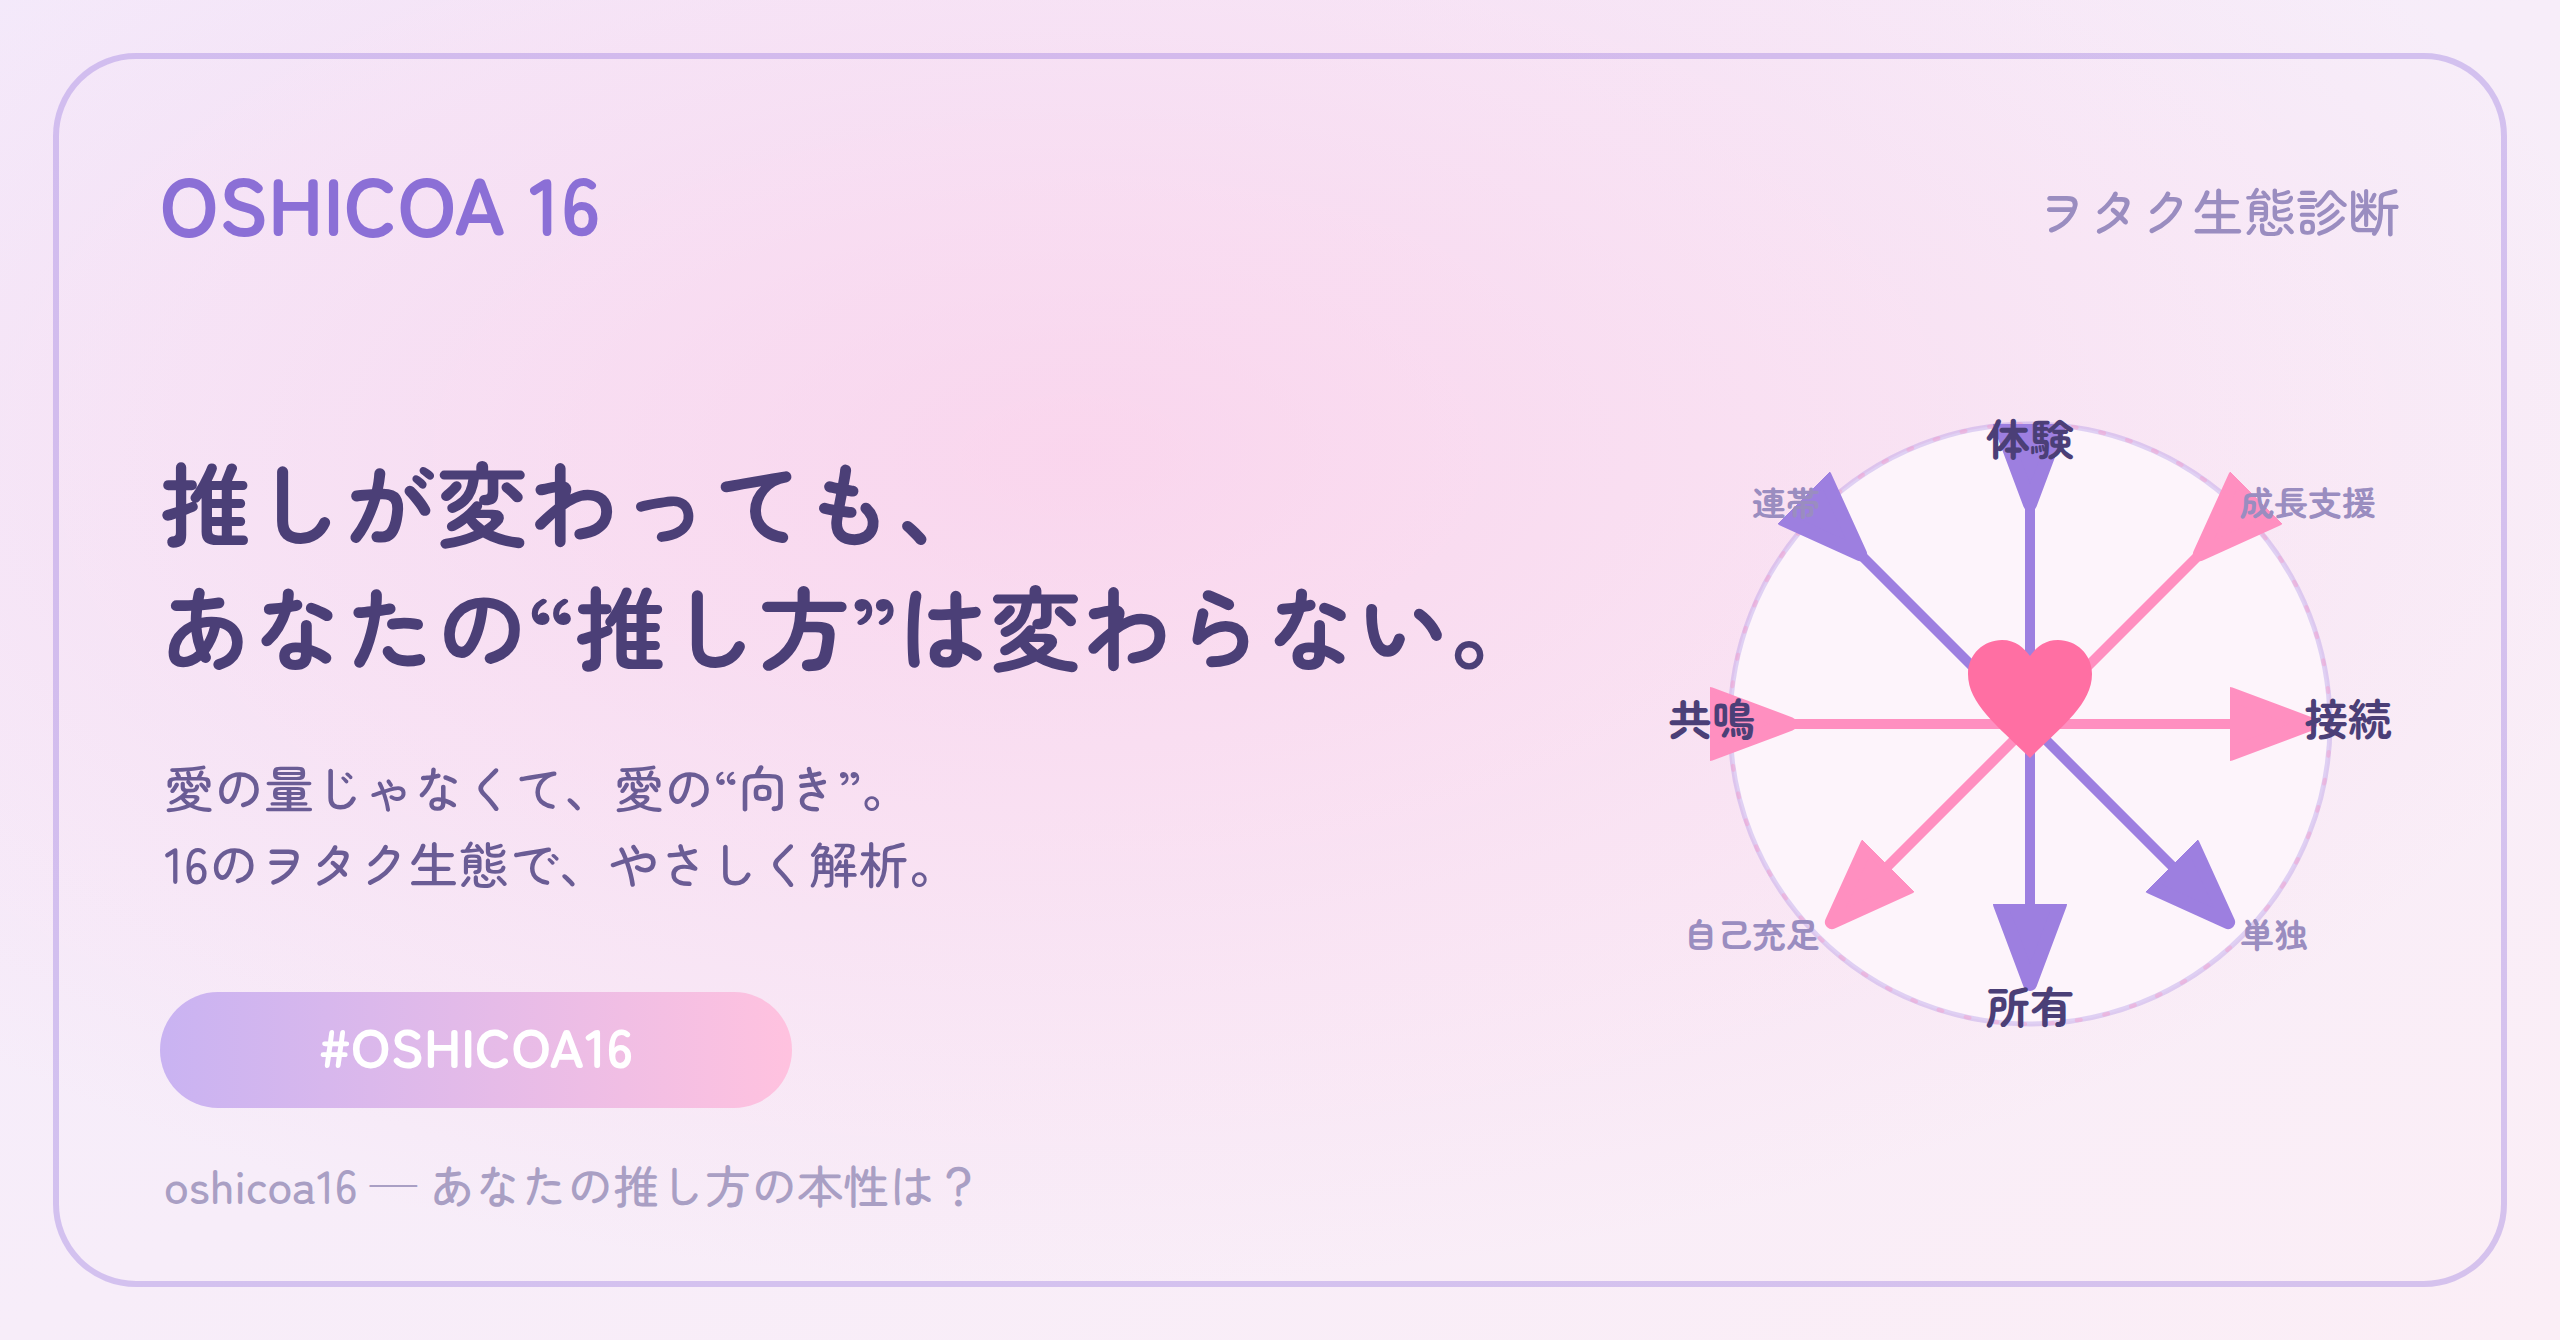
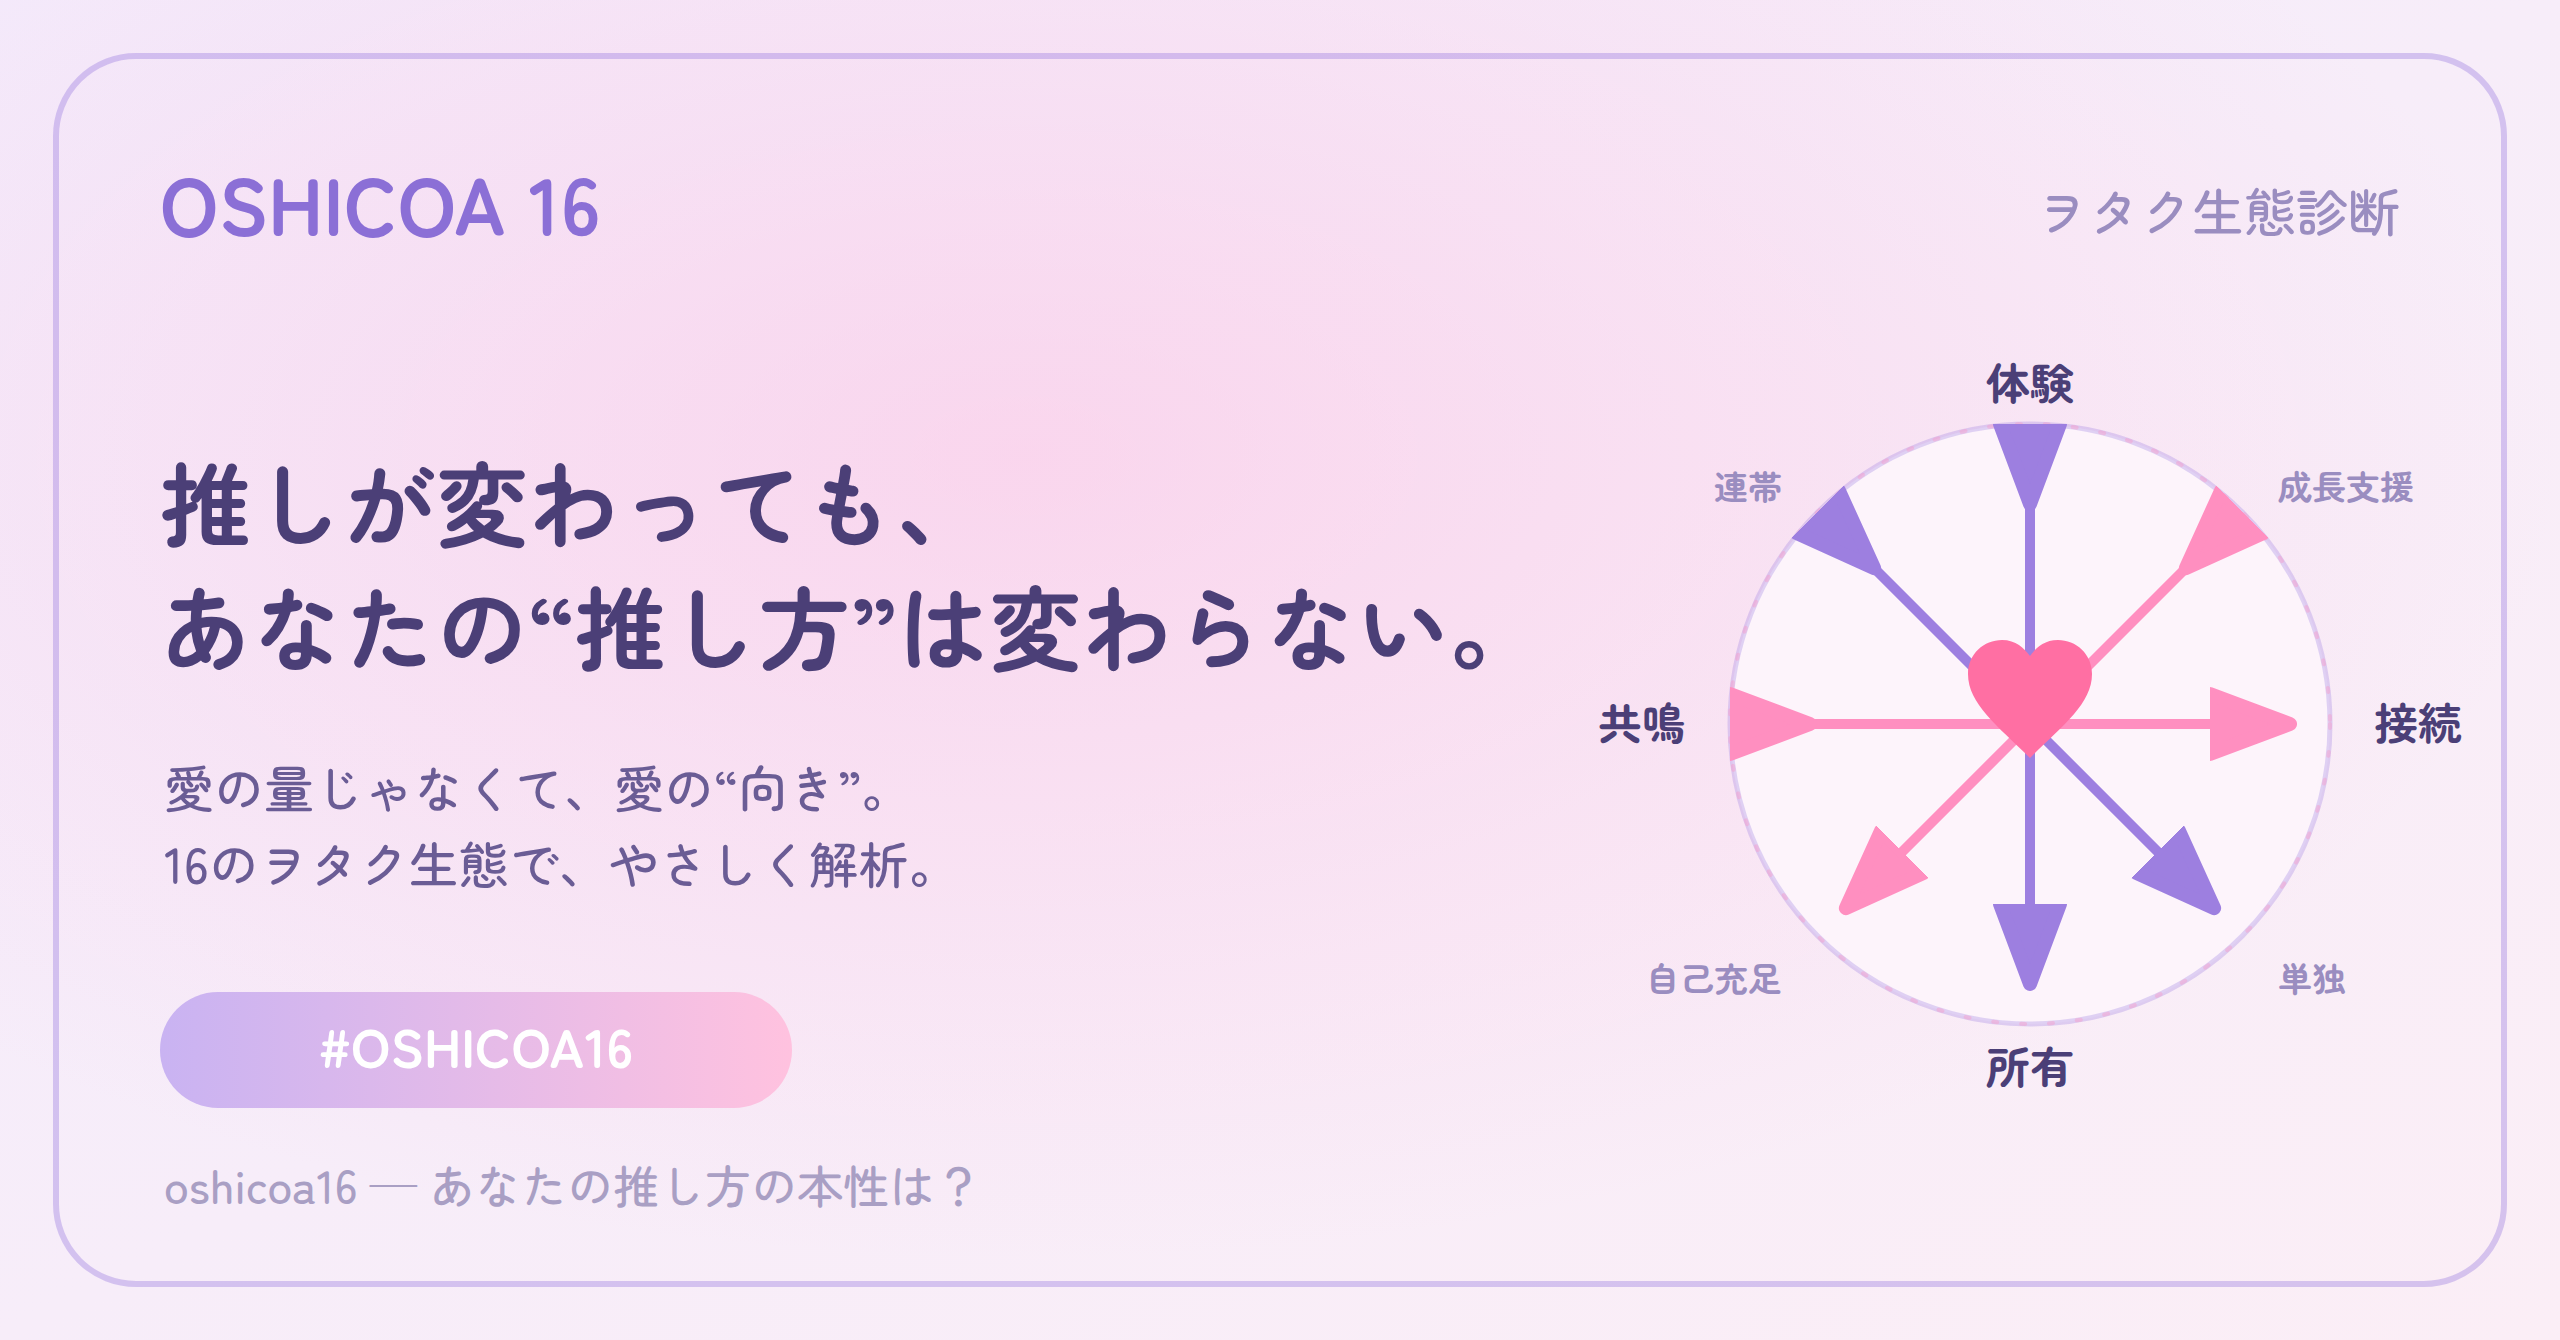
Clean up A thumbnail label layout; add X launch copy draft
Claude-Session: https://claude.ai/code/session_01GE1y8GU4Jh6LCDVvQJVjhd

diff --git a/秘書用/アイデア/2026-07-25_OSHICOA16_X告知下書き.md b/秘書用/アイデア/2026-07-25_OSHICOA16_X告知下書き.md
@@ -1,0 +1,76 @@
+# OSHICOA 16 X（Twitter）告知 下書き
+
+> 用途：有料note公開＋無料診断への集客。トーンはブランド準拠（やさしい・否定しない・パステル可愛い系）。
+> 画像：告知本体＝サムネA（コンパス型）、結果シェア誘導＝各自の結果カード。
+> ⚠ 公開前に［診断リンク］［note記事リンク］を実URLへ差し替え。
+
+---
+
+## A. ローンチ告知ツイート（画像A添付）
+
+> あなたの&ldquo;推し方&rdquo;に、名前つけました。🩷
+>
+> OSHICOA 16 ——推しが変わっても変わらない&ldquo;推し方の本性&rdquo;を、16のヲタク生態で診断します。
+> 課金額でも現場数でも測りません。測るのは「愛の向き」だけ。
+>
+> 全24問・約3〜4分・登録不要でできる👇
+> ［診断リンク］
+> #OSHICOA16 #ヲタク生態診断
+
+*（画像：OSHICOA16_サムネA_compass）*
+
+---
+
+## B. スレッド（Aにぶら下げる）
+
+**B-1**
+> 「認知はいらない、でも少しは覚えててほしい」
+> 「新規が増えると嬉しいのに、ちょっと寂しい」
+> 「降りようと思った日の供給を、運命だと思っちゃう」
+>
+> その矛盾、ぜんぶ&ldquo;あなたが本物のヲタク&rdquo;である証拠です。
+
+**B-2**
+> OSHICOA 16 は、推し方を4つの軸で見ます。
+> ・共鳴 ↔ 接続
+> ・体験 ↔ 所有
+> ・成長支援 ↔ 自己充足
+> ・連帯 ↔ 単独
+>
+> どっちが上とかじゃなくて、「あなたはどっち寄り？」というだけ。組み合わせで16タイプに分かれます。
+
+**B-3**
+> たとえば——
+> 🏟 現場総隊長：行ける現場じゃない、&ldquo;行く&rdquo;現場
+> 🗄 地下アーカイバー：消える前に全部残す
+> 🕯 祭壇の守護神：今日も推しが美しく存在している、それでいい
+>
+> あなたはどのヲタク生態？ 👉 ［診断リンク］
+
+**B-4（有料note誘導）**
+> 診断結果をもっと深く読みたい人へ📖
+> 16タイプ全解説／相性（同担・複数推し）／&ldquo;推し変&rdquo;や&ldquo;情緒振り回され期&rdquo;の乗り越え方まで、note（¥500）にまとめました。
+> あなたの&ldquo;推し方の取扱説明書&rdquo;です👇
+> ［note記事リンク］
+
+---
+
+## C. 結果シェアを促す固定/引用リプ用
+
+> 診断したら、ぜひ結果カードを #OSHICOA16 で見せてください🩷
+> あなたのタイプコード（例：CEMT）と一緒に貼ってくれたら、なかまが見つかるかも。
+
+---
+
+## D. 短尺バリエーション（使い回し用）
+
+- **D-1**：推し、何回変わっても、なぜか毎回おなじ沼り方してない？ それ、あなたの&ldquo;ヲタクの核&rdquo;です。/ 無料診断 → ［診断リンク］ #OSHICOA16
+- **D-2**：課金額では測らない推し活診断、作りました。愛の&ldquo;量&rdquo;じゃなくて&ldquo;向き&rdquo;を16タイプで。/ ［診断リンク］
+- **D-3**：「降りたいのに降りられない」のは意志が弱いんじゃない。核がまだそこを向いてるだけ。/ 診断で確かめる → ［診断リンク］
+
+---
+
+## 投稿メモ
+- 初回はA＋スレッドB。反応を見てCで結果シェアを促進、Dを日替わりで
+- noteリンクはB-4に集約（1投稿1リンクで到達率を担保）
+- ハッシュタグは #OSHICOA16 を主、#ヲタク生態診断 を従で統一
